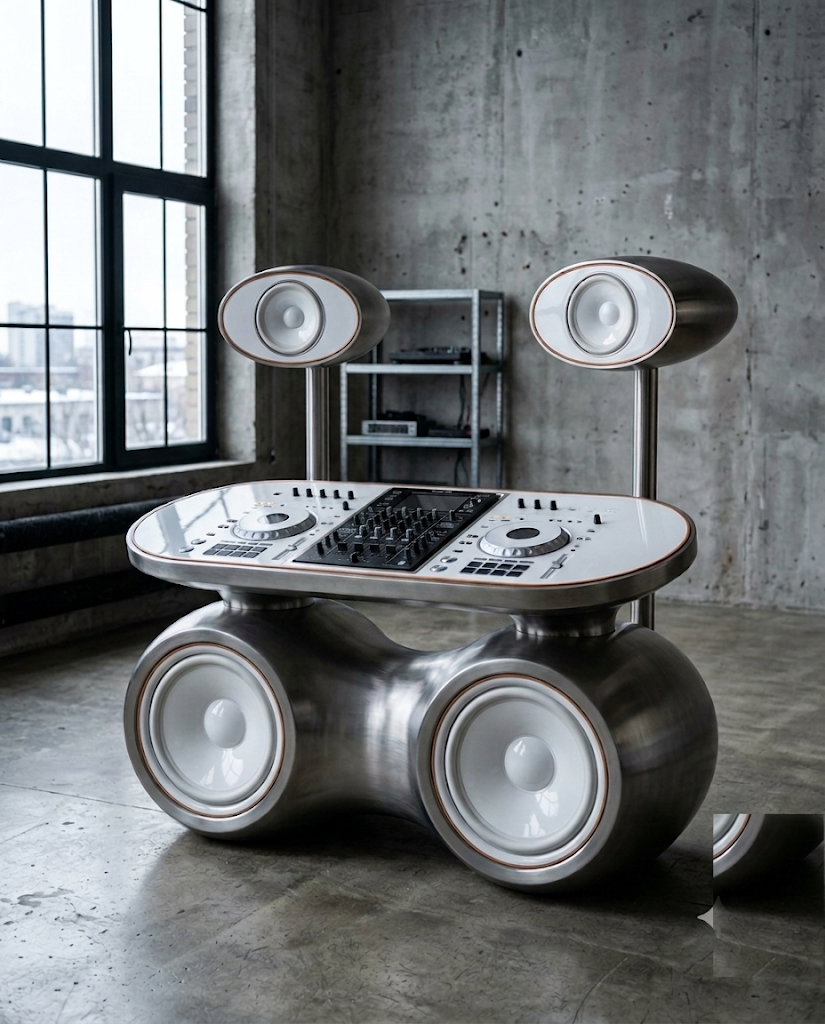
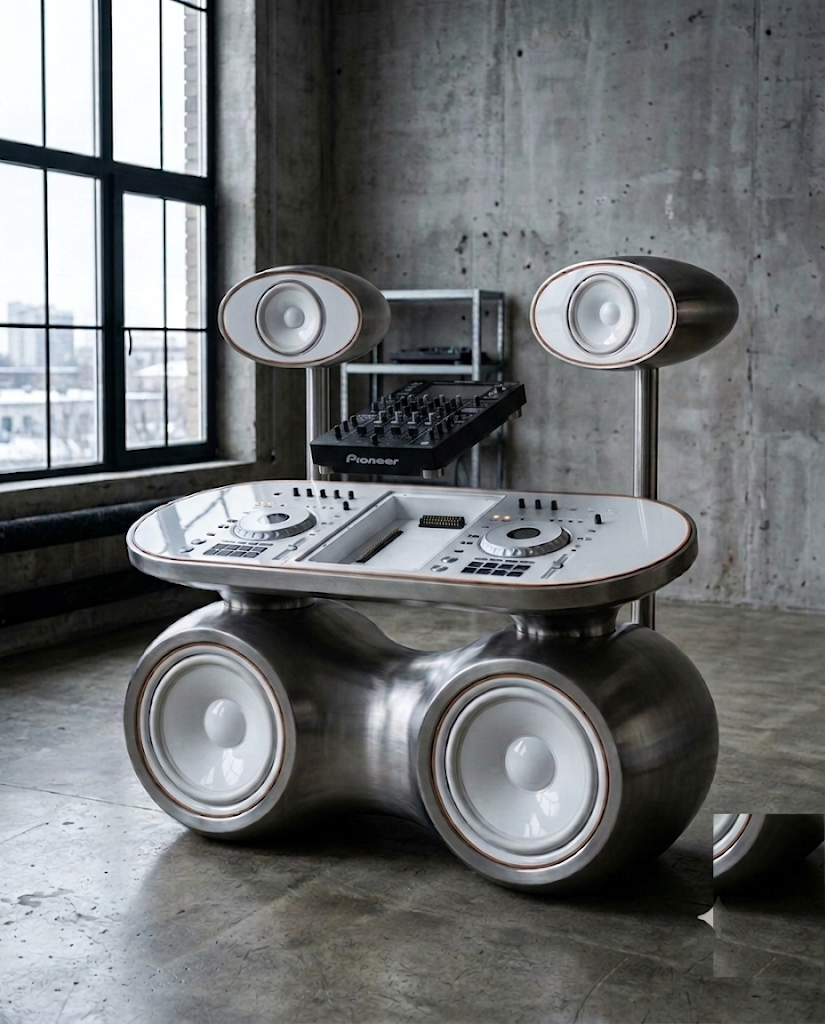
MIRAGE: new hero showing removable mixer; reprice collection (INGOT $120k floor → NOVA $310k)

diff --git a/producto.html b/producto.html
@@ -113,32 +113,32 @@ main{max-width:1200px;margin:0 auto;padding:0 clamp(20px,4vw,48px) 120px}
 <script>
   const V = '?v=ink2';
   const OBJETOS = {
-    mirage: { num:'PLINTH 01', nombre:'MIRAGE', precio:'$88,000', edicion:'EDITION OF 5', tipo:'ALL-IN-ONE',
+    mirage: { num:'PLINTH 01', nombre:'MIRAGE', precio:'$290,000', edicion:'EDITION OF 5', tipo:'ALL-IN-ONE',
       sub:'Two glossy-white speaker pods raised on steel posts over a double-lobe stainless base with two large glossy-white drivers, a white deck bridging them with a docked, removable mixer at its heart. Fine lines of orange, nothing more. The flagship.',
       bp:'plinth-bp-mirage.svg', hero:'plinth-foto-mirage.png',
-      shots:[['plinth-foto-mirage-v1.png','Detail — a glossy-white driver'],['plinth-foto-mirage-v2.png','The white mixer deck']],
+      shots:[['plinth-foto-mirage-v1.png','Detail — a glossy-white driver'],['plinth-foto-mirage-v2.png','Docked — the mixer seated in its bay']],
       ficha:[['Format','All-in-one · flagship'],['Shell','Stainless steel'],['Drivers','Glossy white, fine orange ring'],['Deck','White · removable Pioneer mixer'],['Speakers','2 raised pods + 2 base drivers'],['Weight','~280 kg']] },
-    nova: { num:'PLINTH 02', nombre:'NOVA', precio:'$94,000', edicion:'EDITION OF 4', tipo:'ALL-IN-ONE',
+    nova: { num:'PLINTH 02', nombre:'NOVA', precio:'$310,000', edicion:'EDITION OF 4', tipo:'ALL-IN-ONE',
       sub:'A complete vinyl station in stainless steel — a sculptural console of twin turntables and a crossfader mixer, flanked by two tall speaker towers of glossy-white drivers ringed in fine orange. The whole sound system, cast as one.',
       bp:'plinth-bp-nova.svg', hero:'plinth-foto-nova.png',
       shots:[['plinth-foto-nova-v1.png','Detail — a turntable on the console'],['plinth-foto-nova-v2.png','A speaker tower']],
       ficha:[['Format','All-in-one · vinyl station'],['Shell','Stainless steel'],['Console','2 turntables + mixer'],['Speakers','Two steel towers · multi-driver'],['Drivers','Glossy white, fine orange ring'],['Weight','~340 kg']] },
-    arco: { num:'PLINTH 06', nombre:'ARCO', precio:'$68,000', edicion:'EDITION OF 6', tipo:'BOOTH',
+    arco: { num:'PLINTH 06', nombre:'ARCO', precio:'$220,000', edicion:'EDITION OF 6', tipo:'BOOTH',
       sub:'A single sweep of stainless steel, arched like a bridge, an orange-leather bay recessed flush into its crown for the gear. Molten metal frozen mid-pour.',
       bp:'plinth-bp-arco.svg', hero:'plinth-foto-arco.png',
       shots:[['plinth-foto-arco-v1.png','Detail — the orange-leather deck, no gear'],['plinth-foto-arco-v2.png','The brushed-steel arch']],
       ficha:[['Format','Booth — pair with any speakers'],['Shell','Stainless steel'],['Deck','Orange leather'],['Players','2 × Pioneer CDJ + mixer'],['Form','Cast liquid-metal arch'],['Weight','~180 kg']] },
-    geode: { num:'PLINTH 08', nombre:'GEODE', precio:'$28,000', edicion:'EDITION OF 8', tipo:'SPEAKER',
+    geode: { num:'PLINTH 08', nombre:'GEODE', precio:'$140,000', edicion:'EDITION OF 8', tipo:'SPEAKER',
       sub:'A faceted stainless-steel dodecahedron, a glossy-white driver ringed in a fine line of orange on every face, radiating sound in all directions on a slim steel tripod. An omnidirectional monument.',
       bp:'plinth-bp-geode.svg', hero:'plinth-foto-geode.png',
       shots:[['plinth-foto-geode-v1.png','Detail — a glossy-white driver'],['plinth-foto-geode-v2.png','The sphere on its tripod']],
       ficha:[['Format','Speaker — omnidirectional'],['Body','Stainless faceted steel'],['Drivers','12 faces · glossy-white cones, fine orange ring'],['Stand','Machined steel tripod'],['Weight','~48 kg'],['Lead time','12–16 weeks']] },
-    cornu: { num:'PLINTH 09', nombre:'CORNU', precio:'$42,000', edicion:'EDITION OF 6', tipo:'SPEAKER',
+    cornu: { num:'PLINTH 09', nombre:'CORNU', precio:'$165,000', edicion:'EDITION OF 6', tipo:'SPEAKER',
       sub:'A matched pair of horns in solid stainless steel, each bell lined in glossy white inside — the mouth opening into the room. Sold only as a pair.',
       bp:'plinth-bp-cornu.svg', hero:'plinth-foto-cornu-v2.png',
       shots:[['plinth-foto-cornu-v1.png','Detail — the glossy white bell']],
       ficha:[['Format','Speaker — matched pair'],['Body','Solid stainless steel'],['Finish','Brushed steel outside, glossy white bell'],['Horn','Hand-flared steel bell'],['Weight','~65 kg / pair'],['Lead time','14–18 weeks']] },
-    ingot: { num:'PLINTH 10', nombre:'INGOT', precio:'$32,000', edicion:'EDITION OF 6', tipo:'SPEAKER',
+    ingot: { num:'PLINTH 10', nombre:'INGOT', precio:'$120,000', edicion:'EDITION OF 6', tipo:'SPEAKER',
       sub:'A stainless-steel block with a full-range driver on its face and twin glossy white ceramic horns rising from the top. Raw industry, tuned like a watch.',
       bp:'plinth-bp-ingot.svg', hero:'plinth-foto-ingot.png',
       shots:[['plinth-foto-ingot-v1.png','Detail — a white ceramic horn'],['plinth-foto-ingot-v2.png','The driver on the steel block']],
@@ -153,7 +153,7 @@ main{max-width:1200px;margin:0 auto;padding:0 clamp(20px,4vw,48px) 120px}
   document.getElementById('pv-sub').textContent = o.sub;
   document.getElementById('pv-precio').textContent = o.precio;
   document.getElementById('pv-edicion').textContent = o.edicion;
-  document.getElementById('pv-cta-linea').textContent = o.edicion + ' — DEPOSIT $5,000';
+  document.getElementById('pv-cta-linea').textContent = o.edicion + ' — DEPOSIT $20,000';
 
   const bpImg = document.getElementById('pv-bp-img');
   if (o.bp) { bpImg.src = o.bp + V; bpImg.alt = o.nombre + ' — drawing'; }
@@ -164,7 +164,7 @@ main{max-width:1200px;margin:0 auto;padding:0 clamp(20px,4vw,48px) 120px}
                   ...(o.shots || []).map(s => [s[0], s[1], s[2] || false]) ];
   if (shots.length === 0) hideReal();
   document.getElementById('pv-gal').innerHTML = shots.map(s =>
-    '<figure class="shot' + (s[2] ? ' shot--wide' : '') + '"><img src="' + s[0] + '?v=close2" alt="' + o.nombre + '"><figcaption>' + s[1] + '</figcaption></figure>'
+    '<figure class="shot' + (s[2] ? ' shot--wide' : '') + '"><img src="' + s[0] + '?v=close3" alt="' + o.nombre + '"><figcaption>' + s[1] + '</figcaption></figure>'
   ).join('');
   document.querySelectorAll('#pv-gal img').forEach(img => {
     img.onerror = () => { img.closest('figure').remove(); if (!document.querySelector('#pv-gal figure')) hideReal(); };

diff --git a/index.html b/index.html
@@ -161,8 +161,8 @@ body.pilock{overflow:hidden}
     <p>Booth, speakers and decks fused into a single cast sculpture. Nothing to assemble — you plug in and play.</p>
   </div>
   <div class="grid">
-    <a class="card" href="producto.html?p=mirage&v=ink2"><span class="num">MIRAGE — ALL-IN-ONE</span><div class="ph"><img src="plinth-bp-mirage.svg?v=ink2" alt="MIRAGE"></div><h3>MIRAGE</h3><div class="row"><span>Brushed steel · ed. 5</span><b>$88,000</b></div></a>
-    <a class="card" href="producto.html?p=nova&v=ink2"><span class="num">NOVA — ALL-IN-ONE</span><div class="ph"><img src="plinth-bp-nova.svg?v=ink2" alt="NOVA"></div><h3>NOVA</h3><div class="row"><span>Brushed steel · ed. 4</span><b>$94,000</b></div></a>
+    <a class="card" href="producto.html?p=mirage&v=ink2"><span class="num">MIRAGE — ALL-IN-ONE</span><div class="ph"><img src="plinth-bp-mirage.svg?v=ink2" alt="MIRAGE"></div><h3>MIRAGE</h3><div class="row"><span>Brushed steel · ed. 5</span><b>$290,000</b></div></a>
+    <a class="card" href="producto.html?p=nova&v=ink2"><span class="num">NOVA — ALL-IN-ONE</span><div class="ph"><img src="plinth-bp-nova.svg?v=ink2" alt="NOVA"></div><h3>NOVA</h3><div class="row"><span>Brushed steel · ed. 4</span><b>$310,000</b></div></a>
   </div>
 </section>
 
@@ -172,7 +172,7 @@ body.pilock{overflow:hidden}
     <p>Sculptural DJ booths built around your rider. Pair them with any speakers, or with ours.</p>
   </div>
   <div class="grid">
-    <a class="card" href="producto.html?p=arco&v=ink2"><span class="num">ARCO — BOOTH</span><div class="ph"><img src="plinth-bp-arco.svg?v=ink2" alt="ARCO"></div><h3>ARCO</h3><div class="row"><span>Brushed steel · ed. 6</span><b>$68,000</b></div></a>
+    <a class="card" href="producto.html?p=arco&v=ink2"><span class="num">ARCO — BOOTH</span><div class="ph"><img src="plinth-bp-arco.svg?v=ink2" alt="ARCO"></div><h3>ARCO</h3><div class="row"><span>Brushed steel · ed. 6</span><b>$220,000</b></div></a>
   </div>
 </section>
 
@@ -182,9 +182,9 @@ body.pilock{overflow:hidden}
     <p>Loudspeakers as monuments — sold on their own, or paired with a booth to build your set.</p>
   </div>
   <div class="grid">
-    <a class="card" href="producto.html?p=geode&v=ink2"><span class="num">GEODE — SPEAKER</span><div class="ph"><img src="plinth-bp-geode.svg?v=ink2" alt="GEODE"></div><h3>GEODE</h3><div class="row"><span>Brushed steel · ed. 8</span><b>$28,000</b></div></a>
-    <a class="card" href="producto.html?p=cornu&v=ink2"><span class="num">CORNU — SPEAKER</span><div class="ph"><img src="plinth-bp-cornu.svg?v=ink2" alt="CORNU"></div><h3>CORNU</h3><div class="row"><span>Brushed steel · ed. 6</span><b>$42,000</b></div></a>
-    <a class="card" href="producto.html?p=ingot&v=ink2"><span class="num">INGOT — SPEAKER</span><div class="ph"><img src="plinth-bp-ingot.svg?v=ink2" alt="INGOT"></div><h3>INGOT</h3><div class="row"><span>Brushed steel · ed. 6</span><b>$32,000</b></div></a>
+    <a class="card" href="producto.html?p=geode&v=ink2"><span class="num">GEODE — SPEAKER</span><div class="ph"><img src="plinth-bp-geode.svg?v=ink2" alt="GEODE"></div><h3>GEODE</h3><div class="row"><span>Brushed steel · ed. 8</span><b>$140,000</b></div></a>
+    <a class="card" href="producto.html?p=cornu&v=ink2"><span class="num">CORNU — SPEAKER</span><div class="ph"><img src="plinth-bp-cornu.svg?v=ink2" alt="CORNU"></div><h3>CORNU</h3><div class="row"><span>Brushed steel · ed. 6</span><b>$165,000</b></div></a>
+    <a class="card" href="producto.html?p=ingot&v=ink2"><span class="num">INGOT — SPEAKER</span><div class="ph"><img src="plinth-bp-ingot.svg?v=ink2" alt="INGOT"></div><h3>INGOT</h3><div class="row"><span>Brushed steel · ed. 6</span><b>$120,000</b></div></a>
   </div>
 </section>
 
@@ -204,7 +204,7 @@ body.pilock{overflow:hidden}
   <div class="in">
     <p class="hk" style="color:rgba(234,230,223,.55)">Editions close without notice</p>
     <h2 class="serif">Claim your number.</h2>
-    <p class="price">From $38,000 — deposit $5,000</p>
+    <p class="price">From $120,000 — deposit $20,000</p>
     <a class="btn" href="#collection">Commission yours</a>
   </div>
 </section>

diff --git a/plinth.html b/plinth.html
@@ -161,8 +161,8 @@ body.pilock{overflow:hidden}
     <p>Booth, speakers and decks fused into a single cast sculpture. Nothing to assemble — you plug in and play.</p>
   </div>
   <div class="grid">
-    <a class="card" href="producto.html?p=mirage&v=ink2"><span class="num">MIRAGE — ALL-IN-ONE</span><div class="ph"><img src="plinth-bp-mirage.svg?v=ink2" alt="MIRAGE"></div><h3>MIRAGE</h3><div class="row"><span>Brushed steel · ed. 5</span><b>$88,000</b></div></a>
-    <a class="card" href="producto.html?p=nova&v=ink2"><span class="num">NOVA — ALL-IN-ONE</span><div class="ph"><img src="plinth-bp-nova.svg?v=ink2" alt="NOVA"></div><h3>NOVA</h3><div class="row"><span>Brushed steel · ed. 4</span><b>$94,000</b></div></a>
+    <a class="card" href="producto.html?p=mirage&v=ink2"><span class="num">MIRAGE — ALL-IN-ONE</span><div class="ph"><img src="plinth-bp-mirage.svg?v=ink2" alt="MIRAGE"></div><h3>MIRAGE</h3><div class="row"><span>Brushed steel · ed. 5</span><b>$290,000</b></div></a>
+    <a class="card" href="producto.html?p=nova&v=ink2"><span class="num">NOVA — ALL-IN-ONE</span><div class="ph"><img src="plinth-bp-nova.svg?v=ink2" alt="NOVA"></div><h3>NOVA</h3><div class="row"><span>Brushed steel · ed. 4</span><b>$310,000</b></div></a>
   </div>
 </section>
 
@@ -172,7 +172,7 @@ body.pilock{overflow:hidden}
     <p>Sculptural DJ booths built around your rider. Pair them with any speakers, or with ours.</p>
   </div>
   <div class="grid">
-    <a class="card" href="producto.html?p=arco&v=ink2"><span class="num">ARCO — BOOTH</span><div class="ph"><img src="plinth-bp-arco.svg?v=ink2" alt="ARCO"></div><h3>ARCO</h3><div class="row"><span>Brushed steel · ed. 6</span><b>$68,000</b></div></a>
+    <a class="card" href="producto.html?p=arco&v=ink2"><span class="num">ARCO — BOOTH</span><div class="ph"><img src="plinth-bp-arco.svg?v=ink2" alt="ARCO"></div><h3>ARCO</h3><div class="row"><span>Brushed steel · ed. 6</span><b>$220,000</b></div></a>
   </div>
 </section>
 
@@ -182,9 +182,9 @@ body.pilock{overflow:hidden}
     <p>Loudspeakers as monuments — sold on their own, or paired with a booth to build your set.</p>
   </div>
   <div class="grid">
-    <a class="card" href="producto.html?p=geode&v=ink2"><span class="num">GEODE — SPEAKER</span><div class="ph"><img src="plinth-bp-geode.svg?v=ink2" alt="GEODE"></div><h3>GEODE</h3><div class="row"><span>Brushed steel · ed. 8</span><b>$28,000</b></div></a>
-    <a class="card" href="producto.html?p=cornu&v=ink2"><span class="num">CORNU — SPEAKER</span><div class="ph"><img src="plinth-bp-cornu.svg?v=ink2" alt="CORNU"></div><h3>CORNU</h3><div class="row"><span>Brushed steel · ed. 6</span><b>$42,000</b></div></a>
-    <a class="card" href="producto.html?p=ingot&v=ink2"><span class="num">INGOT — SPEAKER</span><div class="ph"><img src="plinth-bp-ingot.svg?v=ink2" alt="INGOT"></div><h3>INGOT</h3><div class="row"><span>Brushed steel · ed. 6</span><b>$32,000</b></div></a>
+    <a class="card" href="producto.html?p=geode&v=ink2"><span class="num">GEODE — SPEAKER</span><div class="ph"><img src="plinth-bp-geode.svg?v=ink2" alt="GEODE"></div><h3>GEODE</h3><div class="row"><span>Brushed steel · ed. 8</span><b>$140,000</b></div></a>
+    <a class="card" href="producto.html?p=cornu&v=ink2"><span class="num">CORNU — SPEAKER</span><div class="ph"><img src="plinth-bp-cornu.svg?v=ink2" alt="CORNU"></div><h3>CORNU</h3><div class="row"><span>Brushed steel · ed. 6</span><b>$165,000</b></div></a>
+    <a class="card" href="producto.html?p=ingot&v=ink2"><span class="num">INGOT — SPEAKER</span><div class="ph"><img src="plinth-bp-ingot.svg?v=ink2" alt="INGOT"></div><h3>INGOT</h3><div class="row"><span>Brushed steel · ed. 6</span><b>$120,000</b></div></a>
   </div>
 </section>
 
@@ -204,7 +204,7 @@ body.pilock{overflow:hidden}
   <div class="in">
     <p class="hk" style="color:rgba(234,230,223,.55)">Editions close without notice</p>
     <h2 class="serif">Claim your number.</h2>
-    <p class="price">From $38,000 — deposit $5,000</p>
+    <p class="price">From $120,000 — deposit $20,000</p>
     <a class="btn" href="#collection">Commission yours</a>
   </div>
 </section>